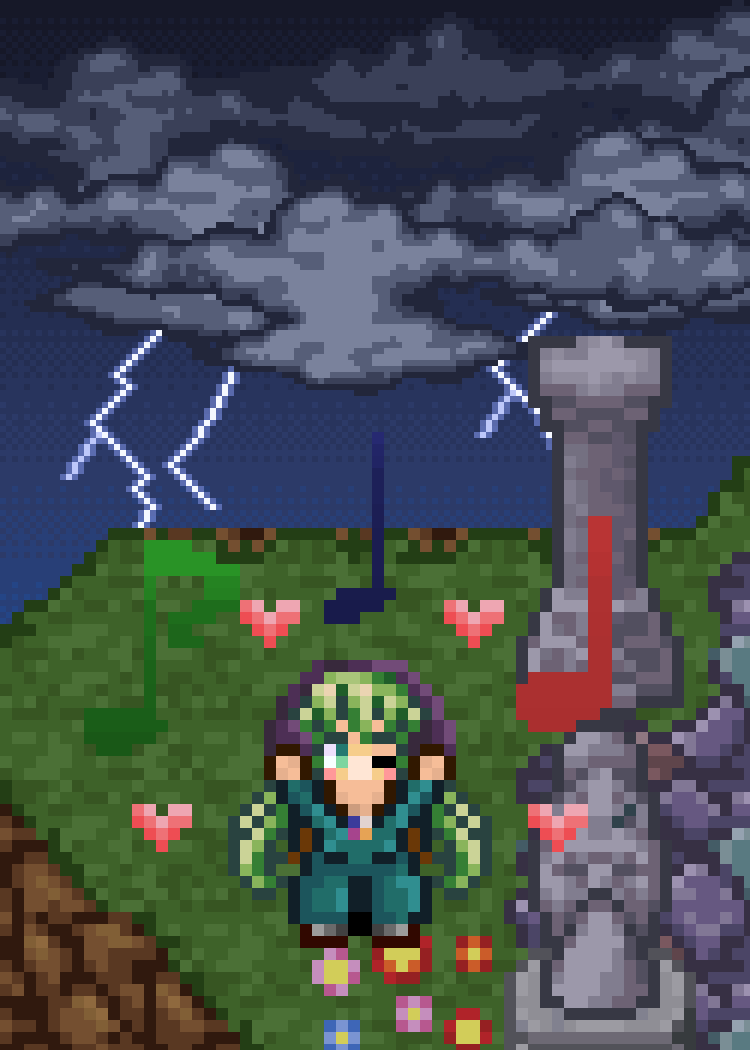
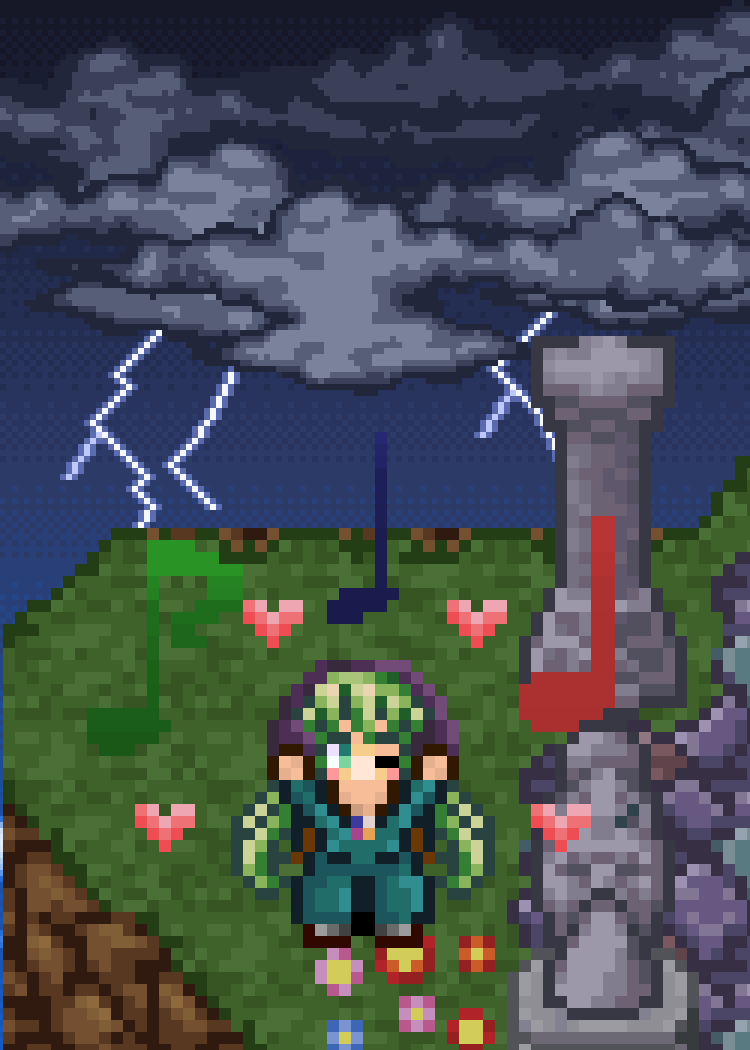
Runde 6: Überarbeitung nach Nutzer-Feedback (Zwischenstand)
Claude-Session: https://claude.ai/code/session_01TEnvTzH2xD44R6Unjv7vDo

diff --git a/data/sleeve-proposals/runde6/generator/s06_crimson_campaign.py b/data/sleeve-proposals/runde6/generator/s06_crimson_campaign.py
@@ -1,22 +1,21 @@
 # -*- coding: utf-8 -*-
 """06 Crimson Campaign – Gegner „Bloody King Zi“, Held: Timeless King Zi (Base-Version).
-Feldherr im blutroten Abendlicht: Zi steht groß auf dem verschneiten Schlachtfeld seiner Heimat, hinter ihm hat sich
-seine Legion mit roten Helmbüschen und Speeren aufgereiht, flankiert von seinen zwei blau-goldenen Standarten (die
-Szepter seiner Kartenszene). Fern am Horizont erhebt sich im Dunst Blood Rock, das Deckcover, vor rot glühendem
+Feldherr im blutroten Abendlicht: Zi steht groß auf dem verschneiten Feld seiner Heimat, links und rechts von ihm
+stecken seine zwei blau-goldenen Standarten (die Szepter seiner Kartenszene) im Schnee. Fern am Horizont steht
+Skulltop Castle – das weiße Schloss mit Goldkuppeln und blauen Fahnen aus seiner Kartenwelt – vor rot glühendem
 Himmel.
 
-Quellen:
-  MotiveGrailWar.xcf Ebene 487 „Zi“: Base-Zi mit Sternumhang (26×28), in Sichtbar #169 (Ebene 30, Kartenbild
-      „Timeless King Zi“, Lage 227,108) sichtbar (99 %, Kartenszene leicht abgedunkelt).
-  MotiveGrailWar.xcf Ebene 485 „Zi #2“: die zwei Szepter/Standarten seiner Kartenszene.
-  MotiveGrailWar.xcf Ebene 214 „Legionäre“: Reihe identischer Legionäre (Periode 18 px), einzeln gesetzt.
-  MotiveGrailWar.xcf Ebene 476 „Ebene #139“: Schneefläche seiner Kartenszene (als Bodentextur, rot getönt).
-  MotiveDeepsea.xcf Ebene 75 „Blood Rock“: das Schloss des Deckcovers, weit hinten im Dunst.
-Selbst gezeichnet: Abendhimmel, ferner Bergkamm, Dunst, Schneewellen, Schatten.
+Quellen (MotiveGrailWar.xcf):
+  Ebene 487 „Zi“: Base-Zi mit Sternumhang (26×28), in Sichtbar #169 (Ebene 30, Kartenbild „Timeless King Zi“,
+      Lage 227,108) sichtbar (99 %, Kartenszene leicht abgedunkelt).
+  Ebene 485 „Zi #2“: die zwei Szepter/Standarten seiner Kartenszene.
+  Ebene 490 „Skulltop Castle“ (31×31; = Referenz skulltop_castle_ref.png), leicht in Abendlicht getönt.
+  Ebene 476 „Ebene #139“: Schneefläche seiner Kartenszene (als Bodentextur, rot getönt).
+Selbst gezeichnet: Abendhimmel, ferner Bergkamm, Schneewellen, Schatten.
 
 Skalierung (Ausgabe = 250×350-Raster × 3):
-  Himmel, Bergkamm, Blood Rock (fern, im Dunst)             – 1× (250×350)
-  Schneefeld, Legion, Standarten, Schatten                 – 2× (125×175)
+  Himmel, ferner Bergkamm                                  – 1× (250×350)
+  Schneefeld, Skulltop Castle, Standarten, Schatten        – 2× (125×175)
   Zi                                                       – 6× (42×59)
 """
 import math, random
@@ -26,12 +25,10 @@ import numpy as np
 B = 'MotiveGrailWar'
 zi = sprite('o06_zi', B, [487])                               # Base-Zi mit Sternumhang (26×28), = Sichtbar #169
 std = parts(compose(B, [485]), dil=1)[0]                      # „Zi #2“: Standarte (7×36)
-legion = compose(B, [214])                                    # „Legionäre“: 5 gleiche Soldaten, Periode 18
-soldier = trimmed(legion[:, 0:19].copy())
 snow = compose(B, [476], crop=False)[284:309, 143:303]        # Schneefläche (ohne Eisgrate/Kanten)
-castle = sprite('o06_bloodrock', 'MotiveDeepsea', [75])       # Blood Rock (189×132)
+castle = sprite('o06_skulltop', B, [490])                     # Skulltop Castle (31×31)
 
-# ---- Ebene 1: Abendhimmel, Bergkamm, Blood Rock (1×) ----------------------------------------------
+# ---- Ebene 1: Abendhimmel, ferner Bergkamm (1×) ----------------------------------------------
 cv = Canvas(250, 350)
 HOR = 150                                                    # Horizont im 250er-Raster
 SKY = [(52, 10, 22), (84, 16, 28), (122, 24, 30), (160, 38, 30), (196, 66, 36), (226, 110, 52), (240, 150, 80)]
@@ -40,20 +37,15 @@ for y in range(HOR + 10):
     i = min(len(SKY) - 2, int(t)); f = t - i
     for x in range(250):
         cv.a[y, x] = SKY[i + 1] if f > bayer(x, y) else SKY[i]
-# Blood Rock weit hinten rechts, im roten Dunst (zur Himmelsfarbe hin gemischt)
-cz = castle[:, 58:134].copy()                               # Mittelteil: Bergfried mit Treppengiebel
-hz = np.array(SKY[4])
-cz[..., :3] = (cz[..., :3] * 0.6 + hz * 0.4).astype(np.uint8)
-cv.paste(cz[:84], 156, HOR - 76)
 # ferner Bergkamm (selbst gezeichnet, 1×), verdeckt den Schlossfuß
 RIDGE = (98, 40, 52)
 for x in range(250):
-    h = 10 + 6 * math.sin(x * 0.045 + 0.8) + 3 * math.sin(x * 0.13) + (5 if 150 < x < 220 else 0) * math.sin((x - 150) / 70 * math.pi)
+    h = 9 + 5 * math.sin(x * 0.045 + 0.8) + 3 * math.sin(x * 0.13)
     top = int(HOR - h)
     for y in range(top, HOR + 10):
         cv.a[y, x] = RIDGE if y > top else (140, 64, 70)
 
-# ---- Ebene 2: Schneefeld, Legion, Standarten (2×, 125×175) -------------------------------------------
+# ---- Ebene 2: Schneefeld, Skulltop Castle, Standarten (2×, 125×175) -------------------------------------------
 W2, H2 = 125, 175
 p2 = rgba(W2, H2)
 G0 = HOR // 2 + 2                                            # Schneefeld beginnt knapp unter dem Horizont
@@ -70,14 +62,16 @@ for (y0, amp, ph) in [(G0 + 6, 2, 0.3), (G0 + 20, 3, 1.7), (G0 + 42, 3, 2.9)]:
         y = int(y0 + amp * math.sin(x * 0.09 + ph))
         p2[y, x, :3] = mix(p2[y, x, :3], (250, 200, 210), 0.45)
         p2[y + 1, x, :3] = mix(p2[y + 1, x, :3], (120, 60, 90), 0.25)
-# Legion in einer Reihe, Standarten an den Enden
-LY = 110                                                     # Fußlinie der Legion (2×-Raster)
-xs = [16, 30, 44, 58, 72, 86, 100]
-for x in xs:
-    put(p2, darken(soldier, 0.82), x, LY - soldier.shape[0])
-    shadow_ellipse(p2, x + 9.5, LY, 7, 1.2, col=(60, 10, 30), a=0.35)
-put(p2, std, 11, LY - std.shape[0] - 2)
-put(p2, std, W2 - 11 - std.shape[1], LY - std.shape[0] - 2)
+# Skulltop Castle fern am Horizont rechts (auf dem Schneefeld), im Abendlicht getönt
+ck = castle.copy()
+ck[..., :3] = (ck[..., :3] * 0.72 + np.array([236, 140, 110]) * 0.28).astype(np.uint8)
+put(p2, ck, 80, G0 + 2 - ck.shape[0])
+# Zis zwei Standarten stecken links und rechts im Schnee
+SY = 118
+put(p2, std, 14, SY - std.shape[0])
+put(p2, std, W2 - 14 - std.shape[1], SY - std.shape[0])
+for sx in (14 + 3.5, W2 - 14 - 3.5):
+    shadow_ellipse(p2, sx, SY, 4, 1.0, col=(60, 10, 30), a=0.4)
 # Bodenschatten unter Zi (Füße bei 250er-y 310 → 2×-Reihe 155)
 shadow_ellipse(p2, 62.5, 155, 20, 3.5, col=(60, 10, 30), a=0.5)
 blit(cv, p2, 2)

diff --git a/data/sleeve-proposals/runde6/generator/s20_stormward_drift.py b/data/sleeve-proposals/runde6/generator/s20_stormward_drift.py
@@ -123,5 +123,5 @@ put(sky, flip(low), 10, 150)
 
 cv = Canvas(W, H)
 blit(cv, sky, 2)
-blit(cv, fg, 4)
+blit(cv, fg, 4, ox=-1)                  # +1 Einheit nach rechts: Kopfmitte genau auf x = 375 von 750
 print(save(cv, '20_stormward_drift.png'))

diff --git a/data/sleeve-proposals/runde6/notes_D.md b/data/sleeve-proposals/runde6/notes_D.md
@@ -1,8 +1,8 @@
 # Notizen Block D (19–24)
 NN | English Name | Gegner | Held | Idee | Skalierung | Quellen | Rahmen
 19 | Hellgate Spring | Gates to Hell | Silent Water Mizune | Beschwörung/Tiefenstaffelung: Mizune steigt wie auf ihrer Karte in ihrer weißblauen Schaumsäule aus stillem, dunklem Wasser; hinter ihr hat sich der Demon's Gate (Cover) geöffnet – der geflügelte rote Dämon tritt aus dem glühenden Rautentor unter rotem Höllenhimmel mit schwarzen Wolkenfetzen; das Wasser spiegelt Tor und Glut, um ihre Säule laufen Wellenringe | Himmel, Demon's Gate, Wasser/Spiegelung, Wellenringe 2×; Mizune 4× (27×44 → 108×176) | Motive: Mizune = Farben der Kartenszene Ebene 128 mit Maske 1306+1309+1311 (unterste 7 Schaumzeilen aus 1311); Demon's Gate 1496 (Dämon), 1497 (Flügel), 1498 (Tor), 1499 (Himmel) in der Anordnung von Szene 116 | Rahmen: wave/sea/ruby
-20 | Stormward Drift | Gather That Storm! | Tarleinn the Traveler | Ruhemoment vor dem Sturm, asymmetrisch: Tarleinn steht mit seinen Herzen und Noten genau an der Stelle seines Kartenbildes – Grasrand der schwebenden Insel mit schräger Felskante, Säule mit Statue; links fällt die Insel in die Tiefe (helle Wolken tief unten), über ihm ballt sich der Gathering Storm (Cover) aus grauen Wolkenbänken, drei Blitze (die Karte trifft 3 Ziele) zucken hinab | Himmel, Sturm-/Tiefenwolken, Blitze 2×; Insel-Vordergrund mit Tarleinn, Herzen, Noten, Säule 4× (Raster 63×88) | MotiveMoe: Kartenszene 155 (Ausschnitt x 141–204, y 70–158, Maske 478 „Relic-Insel“ ∪ 166 „Tarleinn“); Wolke aus 123 (grau umgefärbt, gespiegelt); Blitze selbst gezeichnet (unregelmäßige Zickzack-Segmente, nach Review) | Rahmen: twist/silver/sapphire
-21 | Hall of Arms | Great Weapon Master | Toras, Master of all Weapons | Porträt in der Waffenhalle, Wand symmetrisch als Trophäenwand: Toras frontal mit Schwert in der Linken und riesiger weißer Krummklinge in der Rechten vor der Burgmauer von Blackport; links/rechts grüne Banner, darüber das Schildpaar Shield of Life / Shield of Death seines Decks, über dem Kopf wie auf der Karte das grüne Schwert (+40 Angriff je verschiedenem Artefakt) | alles 4× (Raster 63×88, Spielmaßstab: Toras, Mauer, Banner, Schilde, Pflaster) | MotiveDeepsea 56 „Toras“ + Schwert aus 55 (0 Abweichungen zur Kartenszene 54), grünes Schwert aus 57, Mauer/Sockel/Pflaster/Banner aus 263 „Castle“; Motive 427 Shield of Life, 426 Shield of Death | Rahmen: ornate/gold/emerald
-22 | Vengeful Vigil | Guardians of the Treasure Cave | Mao, the Vengeful Guardian | Nachtwache vor dem Schatztor (Spielansicht: Mauer frontal, Hof schräg von oben): oben in der orangefarbenen Mauer des Wächterhofs das vergitterte Tor der Schatzhöhle, dahinter glänzt ein Goldhaufen; links vor der Mauer steht der Schweine-Wächter Guardian Beast Zhu mit ausgebreiteten Armen, vorn rechts sitzt Mao mit ihrem roten Tuch und blickt uns an; warmer Schein vor dem Tor, Hof sonst dunkel (überarbeitet nach Review) | alles 4× (Raster 63×88: Hof, Tor, Gold, Zhu 24×24, Mao 27×25) | MotiveGuardianBeasts 35 „Mao“ (Base; nicht 34 „Mao-Kopie“), 57 „Zhu“ (stehend, Szene 55), 37 (Wächterhof, Ausschnitt x 121–184, y 3–91, ohne FPS-Schrift); MotiveDeepsea 196 (Goldüberlauf der Schatztruhe, 16×10) | Rahmen: bamboo/lacquer/amber
-23 | Hellfire Salvo | Hellfire Battery | Baaliel, the Demon General | Beschuss, Tiefenstaffelung: Baaliel steht groß vorn auf Basalt vor einem Lavastrom und gibt mit ausgebreiteten Armen den Feuerbefehl; zwei Feuerbälle (Deckkarte Fireball) ziehen schräg von rechts oben nach links unten – Kopf voran, der fernere kleiner – auf die feindliche Stellung auf dem fernen Hügel links, wo ein früherer Treffer lichterloh brennt; nur zwei Horned Demons (Cover) in verschiedener Tiefe: 3× vorn links, 2× hinten rechts (überarbeitet nach Review, ersetzt „Infernal Muster“) | Himmel, Hügel, Brand, ferner Feuerball, ferner Demon, Lavaboden 2×; naher Feuerball, naher Demon 3×; Baaliel 5× (100×140) | Motive 571 „Baaliel“, 573 „Horned Demon“, 1539 „Fireball“ (nur Geschoss, gespiegelt, 20° geneigt), 1537 „Fireball #2“ (Brand), 1044 „Hell“ (Boden); Himmel, Hügelsilhouette, Glut selbst gezeichnet | Rahmen: industrial/iron/lava
-24 | Afterimage | Idej Illusions | Idej Lord Daiyo | Transparenz, Nacht: Daiyo (grüner Geist mit ~73 % Deckkraft wie im Kartenbild, weißes Schwert deckend) schwebt groß vor dem nächtlichen Pavillon der Kogarasu-Karte (Cover); Pavillon und Kirschblütenhain liegen dunkel-violett im Mondlicht, damit die grüne Figur leuchtet; rechts hinten EIN deutlich versetztes, im Schachbrett gedithertes Nachbild = Idej Projection; nur wenige Blüten (überarbeitet nach Review) | Nachthimmel, Mond, Pavillon, Hain, Blüten, grüner Schein 2×; Daiyo + Nachbild 5× (24×41 → 120×205) | MotiveSteamDwarfs 407/405/406 (Kartenszene 402, exakter Treffer); MotiveJapan 236+231+237 (Pavillon), 217 (Kirschbaumreihe), 142 (Blüten); Himmel/Mond/Boden selbst gezeichnet | Rahmen: arch/lacquer/jade
+20 | Stormward Drift | Gather That Storm! | Tarleinn the Traveler | Ruhemoment vor dem Sturm: Tarleinn steht, Kopfmitte genau auf x = 375 (Feedback 1), mit seinen Herzen und Noten genau an der Stelle seines Kartenbildes – Grasrand der schwebenden Insel mit schräger Felskante, Säule mit Statue; links fällt die Insel in die Tiefe (helle Wolken tief unten), über ihm ballt sich der Gathering Storm (Cover) aus grauen Wolkenbänken, drei Blitze (die Karte trifft 3 Ziele) zucken hinab | Himmel, Sturm-/Tiefenwolken, Blitze 2×; Insel-Vordergrund mit Tarleinn, Herzen, Noten, Säule 4× (Raster 63×88) | MotiveMoe: Kartenszene 155 (Ausschnitt x 151–214, y 70–158, Maske 478 „Relic-Insel“ ∪ 166 „Tarleinn“); Wolke aus 123 (grau umgefärbt, gespiegelt); Blitze selbst gezeichnet (unregelmäßige Zickzack-Segmente, nach Review) | Rahmen: twist/silver/sapphire
+21 | Hall of Arms | Great Weapon Master | Toras, Master of all Weapons | Porträt in der Waffenhalle, Wand symmetrisch als Trophäenwand: Toras frontal mit Schwert in der Linken und riesiger weißer Krummklinge in der Rechten vor der Burgmauer von Blackport; grüne Banner ganz außen (teils unter dem Rahmen), dazwischen ohne Überschneidung das Schildpaar Shield of Life / Shield of Death seines Decks, über dem Kopf wie auf der Karte das grüne Schwert (+40 Angriff je verschiedenem Artefakt) (überarbeitet nach Feedback 1: Shield of Life überschnitt das Banner) | alles 4× (Raster 63×88, Spielmaßstab: Toras, Mauer, Banner, Schilde, Pflaster) | MotiveDeepsea 56 „Toras“ + Schwert aus 55 (0 Abweichungen zur Kartenszene 54), grünes Schwert aus 57, Mauer/Sockel/Pflaster/Banner aus 263 „Castle“; Motive 427 Shield of Life, 426 Shield of Death | Rahmen: ornate/gold/emerald
+22 | Vengeful Vigil | Guardians of the Treasure Cave | Mao, the Vengeful Guardian | Nachtwache nach dem Überfall: vor dem vergitterten Tor der Schatzhöhle (dahinter ein Goldhaufen) liegen die gefallenen Guardian Beasts in ihrem Blut – die Leichen aus der Szene von „Dajan, Conqueror of the Treasure Cave“ (Zhu, Tu, Hou, Gou, Yang, Long) in ihrer Anordnung aus der Szene; vorn sitzt groß Mao (Kopfmitte auf x = 375) mit ihrem roten Tuch als rachsüchtige Wächterin, die übrig blieb; warmer Torschein, sonst Nacht (überarbeitet nach Feedback 1) | Hof, Tor, Gold, tote Guardian Beasts 2× (Raster 125×175); Mao 5× (27×25 → 135×125) | MotiveGuardianBeasts 35 „Mao“ (Base), 28 „Ascended Dajan #2“ (Leichen, 98 % in Szene 5 = Dajan-Karte; lebende Niu/Shu/Hu und goldener Krieger nicht verwendet), 37 (Wächterhof x 90–215, y 5–180, ohne FPS-Schrift); MotiveDeepsea 196 (Goldüberlauf 16×10) | Rahmen: bamboo/lacquer/amber
+23 | Hellfire Salvo | Hellfire Battery | Baaliel, the Demon General | Beschuss, Tiefenstaffelung: Baaliel steht groß und mittig (Gesicht auf x = 375) auf Basalt vor einem Lavastrom und gibt mit ausgebreiteten Armen den Feuerbefehl; eine Salve aus vier Feuerbällen (Deckkarte Fireball) zieht auf parallelen, schrägen Bahnen – Kopf voran, die fernen kleiner – zum fernen Hügel links, an dem die Einschläge glühen; Horned Demons (Cover) in zwei Tiefen: zwei nahe als Ehrenwache links/rechts, drei ferne im Glutdunst (überarbeitet nach Feedback 1: senkrechter Feuerball/Brand entfernt, mehr schräge Feuerbälle, mehr Dämonen) | Himmel, Hügel, Einschlagglut, 3 Feuerbälle, 3 Demons, Lavaboden 2×; 1 Feuerball, 2 Demons 3×; Baaliel 5× (100×140) | Motive 571 „Baaliel“, 573 „Horned Demon“, 1539 „Fireball“ (nur Geschoss, gespiegelt, 20° geneigt), 1044 „Hell“ (Boden); Himmel, Hügelsilhouette, Glut selbst gezeichnet | Rahmen: industrial/iron/lava
+24 | Afterimage | Idej Illusions | Idej Lord Daiyo | Transparenz, Nacht: Daiyo (grüner Geist, halbtransparent mit ~73 % Deckkraft wie im Kartenbild, weißes Schwert deckend) schwebt groß vor dem nächtlichen Pavillon der Kogarasu-Karte (Cover), Gesichtsmitte genau auf x = 375; Pavillon und Kirschblütenhain dunkel-violett im Mondlicht, damit die grüne Figur leuchtet; nur wenige Blüten; kein Nachbild mehr (Feedback 1) | Nachthimmel, Mond, Pavillon, Hain, Blüten, grüner Schein 2×; Daiyo 5× (24×41 → 120×205) | MotiveSteamDwarfs 407/405/406 (Kartenszene 402, exakter Treffer); MotiveJapan 236+231+237 (Pavillon), 217 (Kirschbaumreihe), 142 (Blüten); Himmel/Mond/Boden selbst gezeichnet | Rahmen: arch/lacquer/jade

diff --git a/data/sleeve-proposals/runde6/notes_B.md b/data/sleeve-proposals/runde6/notes_B.md
@@ -1,8 +1,8 @@
 # Notizen Block B (07–12)
 NN | English Name | Gegner | Held | Idee | Skalierung | Quellen | Rahmen
-07 | Bone Tide | Bone Rush | Vacarn, the Dark Goblin Necromancer | Vacarn steht groß und frontal vorn auf dem Geröll seines „Dark Land“, sein roter Nekromantie-Schein (Base-Karte) hinter ihm; aus der violetten Nebelschlucht rückt sein Skelettheer in Staffeln an: zwei Bogenschützen als Flanke, dahinter Magier, Heiler und Spitzhut-Skelett, im Nebel die Schatten von Burning/Death Knight/Wizard/Cosmic Skeleton, zwei Schädelfledermäuse am Himmel (frontal, kein Friedhof ≠ Raise the Minions) | Himmel/Schlucht/Boden/zweite Reihe/Schattenheer/Fledermäuse 2×, Bogenschützen + roter Schein 3×, Vacarn 6× (132 px) | Motive 1231 „Vacarn“ (Base, = Szene 47/45 Box 318,198–342,222, nur abgedunkelt), 73/1226/58/54 (Skelette), 790-er Reihe 794/796/792/787 (Schatten), 1286 „Dark Land“ (Texturen); Schein, Nebel, Grate selbst gezeichnet | Rahmen: bone/gothic/ruby/amethyst
+07 | Bone Tide | Bone Rush | Vacarn, the Dark Goblin Necromancer | Vacarn steht groß und frontal vorn auf dem Geröll seines „Dark Land“, sein roter Nekromantie-Schein (Base-Karte) hinter ihm; aus der violetten Schlucht rückt sein Skelettheer in Staffeln an: zwei Bogenschützen als Flanke, dahinter Magier und Heiler, auf dem Horizont links und rechts die dunklen Burning/Death Knight/Wizard/Cosmic Skeletons – alle auf dem schwarzen Geröllboden (kein violetter Nebel am Boden; das seitlich blickende Spitzhut-Skelett entfernt, Feedback 1), zwei Schädelfledermäuse am Himmel | Himmel/Schlucht/Boden/zweite Reihe/Schattenheer/Fledermäuse 2×, Bogenschützen + roter Schein 3×, Vacarn 6× (132 px) | Motive 1231 „Vacarn“ (Base, = Szene 47/45 Box 318,198–342,222, nur abgedunkelt), 73/1226/58/54 (Skelette), 794/796/792/787 (Schatten), 1286 „Dark Land“ (Texturen); Schein, Nebel, Grate selbst gezeichnet | Rahmen: bone/gothic/ruby/amethyst
 08 | Live Fire Test | Boom Boom Kaboom! | Andras, the Human Weapon | Scharfer Test im Labor ihrer Karte: Andras schwebt mit weit gespreizten Arm-Schubflammen in der stählernen Prüfhalle zwischen schwarzen Rippenrohren, die Bombe unter ihr zielt senkrecht auf die Test-Puppe (Anzeige ohne Ziffern) über dem Warnstreifen – gleich macht es Kaboom (≠ Life Serum, ≠ Afterburner) | Halle (Riffelblech-Wand/-Boden, Rohre, Feuerschein, Warnstreifen) 2×, Andras (252×147 px, Flammenspitzen unter dem Rahmen) + Test-Puppe 3× | MotiveGN 448+446+445 (Base-Andras, Szene 7 „Sichtbar #145“ Lage 139,236), 479 „Test Dummy“ („999“ entfernt), 551 „Life Serum“ (Rohre), 559 „Hintergrund“ (Riffelblech) | Rahmen: industrial/iron/amber/ruby
-09 | Caldera Dance | Burning Inferno | Luna Pele, the Flame Dancer | Nachts tief im Krater: Luna Pele tanzt auf einem Basaltfelsen im Lavasee (erkaltete Kruste mit glühenden Fugen), links und rechts ihre Flammensäulen aus der Lava wie auf ihrer Karte, glühende Kraterwände, oben Schlot mit Sternen (im Vulkan statt davor, ohne Tiki-Statuen ≠ Luau) | Himmel/Kraterwände/Lavasee/Flammensäulen 2×, Funken 3×, Basaltinsel + Luna Pele 5× (110×160 px) | MotiveHawaii 262 „Luna Tepe“ (Base-Luna Pele und Säulen, = Szene 5 „Sichtbar #51“ Lage 248,426), 265 (Lava-Streifen), 57/59 (Basalt); Himmel, Licht, Kruste, Glutringe selbst gezeichnet | Rahmen: stone/bronze/lava/topaz
-10 | Serpent Breaker | Cool Gang | Thorad, Strength of Coolness | Ragnarock der Cool Gang: Thorad steht groß auf einem verschneiten Felsvorsprung über dem nächtlichen Sturmmeer; vor ihm hat sich Yolomungandr, die Weltschlange mit Goldketten, aus dem Meer erhoben und bogenförmig über das Bild gewölbt; Thorad hat seinen goldenen Hammer Modnir geschleudert – eine leuchtende Wurfbahn führt von ihm schräg nach oben, der Hammer kracht der Schlange von unten gegen den Kiefer (Lichtstern, Funken, goldener Schein), fern schlägt ein Blitz ins Meer; klare Diagonale Held unten → Ziel oben rechts, kein Hallen-Motiv | Himmel/Wolken/Blitz/Meer/Einschlagschein 2×, Weltschlange (240×174 px) + Gischt + Modnir + Lichtstern-Kern + Wurfbahn 3×, Felsvorsprung + Thorad (110×130 px) 5× | MotiveCoolhalla 221 (Base-Thorad, = Szene 264 „Sichtbar #5“ Lage 173,50, 0 px Abweichung; nicht 219 mit Burning Finger), 217 (Modnir, Karte „Modnir, Hammer of Coolness“, Szene Sichtbar #6), 184 (Weltschlange mit Goldketten, Yolomungandr-Serie), 180 (Lichtstern, nur Kern), 218 (Blitz), 143 (Fels-/Schneetextur); Himmel, Meer, Wurfbahn, Schein selbst gezeichnet | Rahmen: twist/iron/topaz/sapphire
-11 | Silken Descent | Creepy Crawlies | Alleria, the Queen of Spiders | Tief im Spinnenbau: durch ein Loch in der Höhlendecke fällt ein Lichtkegel, Alleria lässt sich an ihrem Faden (eine Hand am Faden wie auf der Karte) hinein; aus Erdlöchern glühen rote Spinnenaugen, Spinnen klettern die Wand hoch, rechts hängt eine Crimson Skull Spider am roten Faden, am Boden krabbeln Spinnen ins Licht – bewusst ohne Spinnennetz | Erdwand/Deckenloch/Lichtkegel/Boden/kleine Spinnen 2×, Crimson Skull Spider 3×, Alleria + Faden 5× (175×145 px) | MotiveGrailWar 622 „Alleria-Kopie“ (Base, = Szene 63 „Sichtbar #56“ Lage 284,118; Netze der Ebene weggelassen), 621 (Faden, verlängert); MotiveGN 259 (Crimson Skull Spider), 267 „SPODDERS“, 421 „Klippen“ (Erdtextur) | Rahmen: filigree/ebony/ruby/amethyst
-12 | Crystal Eve | Crystal Gifts | Mary Crestmas | Heiliger Abend auf dem verschneiten Dorfplatz: Mary Crestmas steht vorn im Schnee, hinter ihr funkelt der Crystal Well (Cover) mit seinem bunten Edelsteinkranz und wirft türkises Licht auf den Schnee; Lichterkette über dem Platz, Sterne, ferne Fensterlichter, Schneefall – ihre „Geschenke“ sind Kristalle | Himmel/Hügel/Schneeplatz/Lichterkette/Flocken 2×, Crystal Well + Funkeln 3×, Mary 5× (120×120 px) | MotiveBoons 71 (flache Weihnachtsdorf-Szene: Bühnen-Mary der Karte freigestellt, Schnee-Textur), MotiveBritain 16/15 (Crystal Well + Funkeln, Szene 14 Lage 190,437) | Rahmen: icicle/ice/ruby/emerald
+09 | Caldera Dance | Burning Inferno | Luna Pele, the Flame Dancer | Nachts tief im Krater: Luna Pele tanzt auf einem Basaltfelsen im Lavasee, genau zwei einzelne hohe Flammensäulen (eine links, eine rechts), glühende Kraterwände, oben Schlot mit Sternen (im Vulkan statt davor, ohne Tiki-Statuen ≠ Luau); Lavasee aus der Lava-Autotile-Textur des Nutzers (Feedback 1) | Himmel/Kraterwände/Lavasee (Autotile 16-px-Kacheln)/Flammensäulen 2×, Funken 3×, Basaltinsel + Luna Pele 5× (110×160 px) | MotiveHawaii 262 „Luna Tepe“ (Base-Luna Pele, = Szene 5 „Sichtbar #51“ Lage 248,426), 258 (einzelne Flammensäule, rechts gespiegelt), 57/59 (Basalt); refs/lava_autotiles.png (Oberkanten- und Mittelkachel); Himmel, Licht, Glutringe selbst gezeichnet | Rahmen: stone/bronze/lava/topaz
+10 | Wowhalla Watch | Cool Gang | Thorad, Strength of Coolness | Neu nach Feedback 1: Thorad steht groß und frontal (Gesicht auf der Bildmitte) im Schnee vor Wowhalla, dem großen Schloss der Coolness (Cover-Karte) – der Wächter vor seiner Halle; hinter ihm die grünen Stachel-Dächer (dieselben, auf denen er auf seiner Karte steht), Zahnräder, Schornstein, darüber der Regenbogen der Rainbow Road | ganze Wowhalla-Szene (Himmel, Regenbogen, Schloss, Zahnräder, Schnee) 1× in Originalpixeln (Schloss 326 px breit, weit hinten), Thorad 6× (132×156 px) | MotiveCoolhalla 221 (Base-Thorad, = Szene 264 „Sichtbar #5“ Lage 173,50, 0 px Abweichung), 253 (Wowhalla), 254 (Zahnräder), 251 (Eissaum), 257 (Himmel), 255/256 (Schnee, diagonal fortgesetzt), 207 (Regenbogen); weiche Rauchsäule 252 weggelassen | Rahmen: twist/iron/topaz/sapphire
+11 | Silken Descent | Creepy Crawlies | Alleria, the Queen of Spiders | Tief im Spinnenbau: von oben fällt ein Lichtkegel herein, Alleria lässt sich an ihrem Faden hinab – der Faden reicht vom oberen Bildrand bis direkt an ihre Hand (Feedback 1: Loch/Grün-Gelbes entfernt, Anschluss an die Hand); ihr Schatten und der der Crimson Skull Spider liegen im Lichtfleck am Boden; aus Erdlöchern glühen rote Spinnenaugen, Spinnen klettern die Wand hoch und krabbeln ins Licht – ohne Spinnennetz | Erdwand/Lichtkegel/Boden/Schatten/kleine Spinnen 2×, Crimson Skull Spider 3×, Alleria + Faden 5× (175×145 px) | MotiveGrailWar 622 „Alleria-Kopie“ (Base, = Szene 63 „Sichtbar #56“ Lage 284,118; Netze weggelassen), 621 (Faden, verlängert); MotiveGN 259 (Crimson Skull Spider), 267 „SPODDERS“, 421 „Klippen“ | Rahmen: filigree/ebony/ruby/amethyst
+12 | Crystal Eve | Crystal Gifts | Mary Crestmas | Heiliger Abend auf dem verschneiten Dorfplatz: Mary Crestmas (ihr Spiel-Sprite MIT Santa-Mütze, Feedback 1) steht vorn im Schnee, hinter ihr funkelt der Crystal Well (Cover) auf einem flachen Schatten (steht jetzt fest auf dem Schnee), türkises Licht auf dem Schnee; Lichterkette, Sterne, ferne Fensterlichter, Schneefall | Himmel/Hügel/Schneeplatz/Lichterkette/Flocken 2×, Crystal Well + Funkeln + Schatten 3×, Mary 5× (120×150 px, Gesicht auf der Bildmitte) | data/hero-animations/mary-crestmas.png (Frame 0, Musiknoten weggelassen), MotiveBoons 71 (Schnee-Textur), MotiveBritain 16/15 (Crystal Well + Funkeln, Szene 14 Lage 190,437) | Rahmen: icicle/ice/ruby/emerald

diff --git a/data/sleeve-proposals/runde6/notes_A.md b/data/sleeve-proposals/runde6/notes_A.md
@@ -1,7 +1,7 @@
 # Notizen Block A (Runde 6, Gegner 01–06)
-01 | Searing Grace | Heal Burn | Nao, the Barrier Priestess | Porträt/Ruhemoment: Nao (Base, goldener Stab) steht groß im weißen Kern ihres Barrierenscheins, hinter ihr breiten sich die Feuerflügel ihrer eigenen Kartenszene aus; Hintergrund ist der goldene Tempel ihrer Karte (Ziegelwand mit zwei rankenbewachsenen Steinmasken, Stachelreihe, Flechtboden); grüne Heilkreuze steigen auf und verfärben sich zur Flamme hin zu Glut – Heilung wird Schaden | Tempel, Masken, Feuerflügel, Schein, Heilkreuze 2× (125×175); Nao 5× (50×70) | Motive: 477 „NAO-Kopie“ (Nao-Ausschnitt, gegen Sichtbar #42/Ebene 99 Lage 278,193 geprüft; Kopf/Oberkörper pixelgleich, Unterkörper im Kartenbild vom Glühen überdeckt), 475+476 (Feuerflügel der Kartenszene), 471 (Schein als Vorlage), 1080 „Schatzgrotte-Kopie“ (Kacheln, Masken) | Rahmen: ornate/gold/ruby/topaz
+01 | Searing Grace | Heal Burn | Nao, the Barrier Priestess | Nao wehrt ab: Nao (Base, goldener Stab, Gesicht mittig) steht groß im goldenen Tempel ihrer Karte, umhüllt von ihrer schimmernden Barrierenkugel; ein Feuerball schlägt rechts oben auf die Barriere und zerstiebt in Funken und am Rand zerfließenden Flammenzungen (der Rand leuchtet auf), ein zweiter fliegt von links heran – sie bleibt unversehrt | Tempelwand, Boden, Masken, Schatten 2× (125×175); Nao, Barriere (Alpha auf ganzen 5×-Pixeln), Feuerbälle, Einschlag 5× (50×70) | Motive: 477 „NAO-Kopie“ (Nao-Ausschnitt, gegen Sichtbar #42/Ebene 99 geprüft), 1539 „Fireball“ (Feuerball, einmal gespiegelt), 1080 „Schatzgrotte-Kopie“ (Kacheln, Masken); Barriere nach Ebene 471 selbst gezeichnet | Rahmen: ornate/gold/ruby/topaz
 02 | Blast Radius | Suicide Bombers | Bomb Berserker Bartas | Action: Bartas steht mit verschränkten Armen unbeeindruckt vorn auf dem Lavastein, hinter ihm blüht eine gewaltige Explosion auf; Lavaband am Horizont, flache Druckwelle, fliegende Splitter, sein Schatten fällt im Gegenlicht lang nach vorn | Himmel, Explosion, Boden, Splitter 3× (84×117); Bartas + Schatten 6× (42×59) | Motive: 1476 „Bartas“ (= Sichtbar #267/Ebene 129, 100 %), 1481 „Explosion“ (in Glutpalette umgefärbt), 1477/1475 (Lavastein-/Lavakachel, Splitter aus Bartas' Kartenszene) | Rahmen: industrial/iron/lava
-03 | Tainted Fountain | Venom Swamp | Zsos'Ssar, the Serpent Warlord | Poisoned Well (Cover) als zweiter Blickpunkt: abends auf dem Dorfplatz von Deri steht Zsos'Ssar groß mit Hellebarde vor dem nah herangeholten Brunnenbecken, dessen Wasser giftviolett leuchtet (vergiftete Fassung der Kartenszene); Giftblasen, Dunstschwaden, violetter Schein auf Rand und Pflaster, die Steinstatue ragt über ihm auf | Dorfplatz, Brunnen, Statue, Blasen, Dunst, Schein 3× (84×117); Zsos'Ssar 6× (42×59) | Motive: 521 „Snecko“ (= Base-Zsos'Ssar, Sichtbar #148/Ebene 405, 100 %); MotiveDeri: 179 „Ebene #40“ (Deri mit vergiftetem Brunnen = Kartenbild Poisoned Well), eingebackene Figuren und Wegweiser mit Pflaster übermalt | Rahmen: twist/bronze/emerald/amethyst
-04 | Shield Shrine | Bamboo Warrior | Xiong, the Bamboo Guardian | Wappenwand/Ehrenwache: Xiong (Base, Bambusstab quer) steht frei vor einer dunklen, rot lackierten Palastwand; über ihm hängt im Lichtschein sein Bamboo Shield vor dem brennenden Bamboo Staff (Cover), oben der rote Behang der Bamboo-Shield-Karte – bewusst anders als „Bamboo Sentinel“ (Bambushain) | Wand, Behang, Schild, Stab, Boden 3× (84×117); Xiong 5× (50×70) | MotiveChina: 5 „Xiong“ (= Sichtbar #4, 100 %), 12 „Bamboo Statt“ (brennender Stab, einmal gespiegelt dahinter), 3 (Vorhänge), 16 „Bamboo Shield“, 26 „Palace #3“ (Ziegel, dunkel); Lackwand, Goldleiste, Schein selbst gezeichnet | Rahmen: bamboo/bamboo/jade
-05 | Field Study | Big Stomp! | Kit, the Shark Researcher | Spurensuche: Kit (Hut, Laborkittel) steht auf einer Lichtung der Gigantisaurier-Insel (Kartenstil der Gigantisaur-Karten); hinter ihm steht der riesige Brachion mit den Füßen auf der Lichtung vor dem Waldrand und reckt den Hals über ihn, seine Trittsiegel führen quer über die Lichtung | Insel, Brachion (gespiegelt), Trittsiegel 3× (84×117); Kit 5× (50×70) | MotiveDeepsea: 38 (Hut) + 39 „Kit-Kopie“ (= Kartenbild Sichtbar #37, sitzend, offener Mund), Beine ab Hüfte aus 40 „Kit“ (stehend; im Kartenbild vom Stuhl verdeckt); MotiveGrailWar: 503 „Brachion“ (= Sichtbar #61, 100 %), 515 (Inselkarte) | Rahmen: wave/wood/amber
-06 | Crimson Campaign | Bloody King Zi | Timeless King Zi | Feldherr im blutroten Abendlicht: Zi steht groß auf dem verschneiten Schlachtfeld, hinter ihm seine Legion mit roten Helmbüschen und Speeren, flankiert von seinen zwei blau-goldenen Standarten; fern am Horizont erhebt sich Blood Rock (Cover) im roten Dunst | Himmel, Bergkamm, Blood Rock 1× (fern); Schneefeld, Legion, Standarten, Schatten 2× (125×175); Zi 6× (42×59) | MotiveGrailWar: 487 „Zi“ (Sichtbar #169/Ebene 30, 99 %), 485 „Zi #2“ (Standarten seiner Kartenszene), 214 „Legionäre“ (einzeln gesetzt), 476 (Schneefläche, rot getönt); MotiveDeepsea: 75 „Blood Rock“ (Mittelteil, im Dunst) | Rahmen: cosmic/ice/ruby/sapphire
+03 | Tainted Fountain | Venom Swamp | Zsos'Ssar, the Serpent Warlord | Poisoned Well (Cover) als zweiter Blickpunkt: Zsos'Ssar steht groß mit Hellebarde (Gesicht mittig auf x = 375) vor dem nah herangeholten, giftviolett leuchtenden Brunnenbecken von Deri; Giftblasen, Dunstschwaden, violetter Schein auf Rand und Pflaster, die Steinstatue ragt hinter ihm auf | Dorfplatz, Brunnen, Statue, Blasen, Dunst, Schein 3× (84×117); Zsos'Ssar 6× (42×59) | Motive: 521 „Snecko“ (= Base-Zsos'Ssar, Sichtbar #148/Ebene 405, 100 %); MotiveDeri: 179 „Ebene #40“ (Deri mit vergiftetem Brunnen = Kartenbild Poisoned Well), eingebackene Figuren und Wegweiser mit Pflaster übermalt | Rahmen: twist/bronze/emerald/amethyst
+04 | Shield Shrine | Bamboo Warrior | Xiong, the Bamboo Guardian | Wappenwand/Ehrenwache: Xiong (Base, Bambusstab quer, Gesicht mittig auf x = 375) steht frei vor einer dunklen, rot lackierten Palastwand; über ihm hängt im Lichtschein sein Bamboo Shield vor dem brennenden Bamboo Staff (Cover), oben der rote Behang der Bamboo-Shield-Karte – bewusst anders als „Bamboo Sentinel“ (Bambushain) | Wand, Behang, Schild, Stab, Boden 3× (84×117); Xiong 5× (50×70) | MotiveChina: 5 „Xiong“ (= Sichtbar #4, 100 %), 12 „Bamboo Statt“ (brennender Stab, zweimal gegenläufig), 3 (Vorhänge), 16 „Bamboo Shield“, 26 „Palace #3“ (Ziegel, dunkel); Lackwand, Goldleiste, Schein selbst gezeichnet | Rahmen: bamboo/bamboo/jade
+05 | Field Study | Big Stomp! | Kit, the Shark Researcher | Abends am Waldrand der Gigantisaurier-Insel folgt Kit (Hut, Laborkittel) auf der Wiese einer Fährte dreizehiger Trittsiegel – hinter ihm ragt über den Baumwipfeln die schwarze Schattensilhouette des T-Rex vor dem Abendhimmel auf, das Maul über ihm aufgerissen; einheitliche Seitenansicht mit Horizont | Himmel, T-Rex-Silhouette, Waldrand, Wiese, Trittsiegel 2× (125×175); Kit 5× (50×70) | MotiveDeepsea: 38 (Hut) + 39 „Kit-Kopie“ (= Kartenbild Sichtbar #37, offener Mund), Beine ab Hüfte aus 40 „Kit“ (im Kartenbild vom Stuhl verdeckt); MotiveGrailWar: 513 „Trex“ (King Trex, gespiegelt, als Silhouette, ohne Flammenkrone), 515 (Graskachel der Inselkarte); Himmel, Baumsilhouetten, Trittsiegel selbst gezeichnet | Rahmen: wave/wood/amber
+06 | Crimson Campaign | Bloody King Zi | Timeless King Zi | Feldherr im blutroten Abendlicht: Zi steht groß (Gesicht mittig) auf dem verschneiten Feld seiner Heimat, links und rechts stecken seine zwei blau-goldenen Standarten im Schnee; fern am Horizont steht Skulltop Castle (weiß, Goldkuppeln, blaue Fahnen) vor rot glühendem Himmel | Himmel, ferner Bergkamm 1×; Schneefeld, Skulltop Castle, Standarten, Schatten 2× (125×175); Zi 6× (42×59) | MotiveGrailWar: 487 „Zi“ (Sichtbar #169/Ebene 30, 99 %), 485 „Zi #2“ (Standarten seiner Kartenszene), 490 „Skulltop Castle“ (= Referenz skulltop_castle_ref.png, abendlich getönt), 476 (Schneefläche, rot getönt) | Rahmen: cosmic/ice/ruby/sapphire

diff --git a/data/sleeve-proposals/runde6/concepts.md b/data/sleeve-proposals/runde6/concepts.md
@@ -12,19 +12,19 @@
 19 | Hellgate Spring | Beschwörung/Tiefenstaffelung: Mizune (Base, in ihrer Schaumsäule) steigt aus stillem, dunklem Wasser auf; hinter ihr hat sich der Demon's Gate geöffnet – der geflügelte rote Dämon tritt aus dem glühenden Rautentor unter rotem Höllenhimmel – und das Wasser spiegelt Tor und Glut
 20 | Stormward Drift | Ruhemoment vor dem Sturm, asymmetrisch: Tarleinn steht mit seinen Herzen und Noten am Grasrand seiner schwebenden Insel (Kartenstelle: schräge Felskante, Säule mit Statue); über ihm ballt sich der Gathering Storm aus grauen Wolkenbänken, drei Blitze (3 Ziele) zucken in die Tiefe
 21 | Hall of Arms | Porträt in der Waffenhalle, Wand streng symmetrisch (alles 4×, Spielmaßstab): Toras (Base, Schwert + weiße Krummklinge) steht frontal vor der Burgmauer von Blackport; links/rechts die grünen Banner, darüber das Schildpaar Shield of Life / Shield of Death seines Decks, über dem Kopf das grüne Schwert seiner Karte
-22 | Vengeful Vigil | Nachtwache vor dem Schatztor (alles 4×, Spielansicht): vergittertes Tor der Schatzhöhle mit Goldhaufen dahinter, links der stehende Schweine-Wächter Zhu, vorn Mao mit rotem Tuch; warmer Torschein, Hof dunkel
-23 | Hellfire Salvo | Beschuss: Baaliel groß vorn auf Basalt; zwei Fireballs ziehen schräg auf eine brennende feindliche Stellung auf dem fernen Hügel; nur zwei Horned Demons in verschiedener Tiefe (3×/2×)
-24 | Afterimage | Transparenz, Nacht: grüner Geist Daiyo (Base, weißes Schwert) vor dem nächtlichen Kogarasu-Pavillon, dunkler Kirschblütenhain, Mond; ein gedithertes Nachbild rechts hinten = Idej Projection (kein Projektor, kein Lichtkegel, kein Wasser)
-01 | Searing Grace | Porträt/Ruhemoment: Nao (Base, goldener Stab) steht groß in ihrem weißen Barrierenschein vor dem goldenen Tempel ihrer Karte, hinter ihr breitet sich der flammende Feuerflügel-Schein der Kartenszene aus; von unten steigen grüne Heilfunken auf und verglühen oben zu Glut (Heilung wird Schaden)
+22 | Vengeful Vigil | Nachtwache nach dem Überfall: vor dem vergitterten Schatztor liegen die toten Guardian Beasts (Leichen aus der Dajan-Szene) in ihrem Blut, vorn sitzt groß Mao als die Wächterin, die übrig blieb
+23 | Hellfire Salvo | Beschuss: Baaliel groß und mittig vorn auf Basalt; eine Salve aus vier schrägen Fireballs zieht zum glühenden Hügel links; Horned Demons in zwei Tiefen (2 nah, 3 fern)
+24 | Afterimage | Transparenz, Nacht: grüner Geist Daiyo (Base, halbtransparent, weißes Schwert, Gesicht mittig) vor dem nächtlichen Kogarasu-Pavillon, dunkler Kirschblütenhain, Mond (kein Nachbild, kein Projektor, kein Wasser)
+01 | Searing Grace | Nao wehrt ab: Nao groß in ihrer schimmernden Barrierenkugel im goldenen Tempel, Feuerbälle prallen auf die Barriere und zerstieben
 02 | Blast Radius | Action: Bomb Berserker Bartas steht mit verschränkten Armen unbeeindruckt vorn auf dem Lavastein seiner Karte, während hinter ihm eine gewaltige Explosion (Explosion-Sprite) aufblüht; Gesteinsbrocken fliegen, links und rechts brennen die toten Bäume seiner Karte
 03 | Tainted Fountain | Poisoned Well nah: Zsos'Ssar (6×) steht groß vor dem giftviolett leuchtenden Brunnenbecken von Deri, Giftblasen und Dunst, die Steinstatue ragt über ihm auf
 04 | Shield Shrine | Wappenwand/Ehrenwache: Xiong steht frei vor dunkler, rot lackierter Palastwand, über ihm Bamboo Shield vor dem brennenden Bamboo Staff (Cover), oben roter Behang
-05 | Field Study | Spurensuche: Kit auf einer Lichtung der Gigantisaurier-Insel, hinter ihm der Brachion mit den Füßen auf der Lichtung vor dem Waldrand, Trittsiegel quer über die Lichtung
-06 | Crimson Campaign | Feldherr im blutroten Abendlicht: Zi groß auf dem verschneiten Schlachtfeld, dahinter seine Legion mit Standarten, fern im Dunst Blood Rock
+05 | Field Study | Kit folgt abends auf der Wiese am Waldrand einer T-Rex-Fährte, hinter ihm ragt die schwarze T-Rex-Silhouette vor dem Abendhimmel auf
+06 | Crimson Campaign | Feldherr im blutroten Abendlicht: Zi groß auf verschneitem Feld zwischen seinen Standarten, fern Skulltop Castle
 07 | Bone Tide | Action mit Tiefenstaffel: Vacarn (Base, roter Nekromantie-Schein der Karte) steht groß vorn auf dem Felsboden seiner Kartenwelt, hinter ihm quillt sein Skelettheer (Death Knight, Mage, Reaper, Archer, Bone Dog, Skull Bat …) in Keilformation aus dem violetten Nebel der Schlucht auf den Betrachter zu – frontal statt von hinten, kein Friedhof (≠ Raise the Minions)
 08 | Live Fire Test | (geändert: „Launch Shaft“ zu nah an Afterburner/Life Serum) Scharfer Test im Labor ihrer Karte: Andras schwebt mit weit gespreizten Schubflammen in der stählernen Prüfhalle zwischen schwarzen Rohrsäulen, die Bombe unter ihr zielt auf die Test-Puppe am Boden – gleich macht es Kaboom
 09 | Caldera Dance | Luna Pele tanzt nachts auf einem Basaltfelsen mitten im Lavasee eines Kraters (Heart of the Mountain), links und rechts steigen ihre Flammensäulen aus der Lava (Dance of the Flame Pillars), die Kraterwände glühen, oben Rauch und Sterne – im Vulkan statt davor (≠ Luau)
-10 | Serpent Breaker | (ersetzt „Hammerfall“) Ragnarock: Thorad steht groß auf einem Felsvorsprung über dem Sturmmeer und schleudert seinen goldenen Hammer Modnir gegen Yolomungandr, die Weltschlange mit Goldketten, die sich aus dem Meer erhebt – leuchtende Wurfbahn, Einschlag am Kiefer, kein Hallen-Motiv
+10 | Wowhalla Watch | (ersetzt „Hammerfall“/„Serpent Breaker“, Nutzer-Feedback) Thorad steht groß im Schnee vor dem großen Wowhalla-Schloss aus MotiveCoolhalla, Regenbogen über den Stachel-Dächern – der Wächter vor seiner Halle
 11 | Silken Descent | Alleria lässt sich an ihrem Faden aus einem Lichtloch in der Höhlendecke in die dunkle Spinnenhöhle (Spider Hive) hinab; unten in den Löchern der Erdwand glühen rote Spinnenaugen, eine Crimson Skull Spider hängt an ihrem roten Faden – ohne Spinnennetz
 12 | Crystal Eve | Heiliger Abend auf dem verschneiten Dorfplatz: Mary Crestmas (Bühnenfassung ihrer Karte) steht vorn im Schnee, hinter ihr funkelt der Crystal Well mit seinem bunten Edelsteinkranz, über dem Platz Lichterkette, Sterne, ferne Fensterlichter, Schneefall
 31 | Tiger and Ox | Nachts auf dem Friedhof seiner Karte (Grabkreuze, Schädel, Knochen): Ghuanjun (Base, Jiangshi mit Hut und Talisman) steht groß frontal; hinter ihm leuchten als halbtransparente Mosaik-Masken seine zwei Kampfgeister – links der Tiger (Ferocious Tiger Kick), rechts der Ochse (Strong Ox Headbutt): „One-Two-Punch“, zwei Angriffe pro Zug

diff --git a/data/sleeve-proposals/runde6/notes_H.md b/data/sleeve-proposals/runde6/notes_H.md
@@ -1,6 +1,6 @@
 # Notizen Block H (41–44)
 NN | English Name | Gegner | Held | Idee | Skalierung | Quellen | Rahmen
-41 | Rampart of Deri | Steam Dwarf Mines | Layn, Defender of Deri | Porträt über die Brüstung: Layn (Base, Krone mit Rubin und Quasten, Hände auf der Zinne) bewacht hinter der grauen Zinnenmauer seiner Karte die Minenhalle der Steam Dwarfs, die sich hinter ihm als eine Tiefe öffnet: vorn eine steinerne Förderbrücke mit Schienen, deren Pfeiler im Lavafluss am Grund stehen, darauf als Blickpunkt der Steam Dwarf Dragon Pilot (Cover); weiter hinten auf zwei versetzten Felsbänken der Steam Dwarf Exterminator (sein Flammenstrahl schießt über die Kante hinab; statt des Miners, Nutzer-Feedback) und der Brewer mit aufsteigendem Dampf | Felswand, Felsbänke, Miner, Brewer, Dampf, Lavafluss 2×; Förderbrücke, Pfeiler, Dragon Pilot 3×; Layn + Brüstung 5× | MotiveDeri 250 „Layn“, 245 „Layn #1“, 246 „Zinnen“ (gegen Sichtbar #83 pixelgleich); MotiveSteamDwarfs 445 (Felswand-Kachel), 444 (Lava-Kachel), Exterminator [433, 434], Brewer [440, 441], Dragon Pilot [429], Dampf 431 | Rahmen: industrial/iron/lava
+41 | Rampart of Deri | Steam Dwarf Mines | Layn, Defender of Deri | Porträt über die Brüstung: Layn (Base, Krone mit Rubin und Quasten, Hände auf der Zinne) bewacht hinter der grauen Zinnenmauer seiner Karte die Minenhalle der Steam Dwarfs, die sich hinter ihm als eine Tiefe öffnet: vorn eine steinerne Förderbrücke mit Schienen, deren Pfeiler im Lavafluss am Grund stehen, darauf als Blickpunkt der Steam Dwarf Dragon Pilot (Cover); weiter hinten auf zwei versetzten Felsbänken der Steam Dwarf Exterminator (sein Flammenstrahl schießt über die Kante hinab; statt des Miners, Nutzer-Feedback) und der Brewer mit aufsteigendem Dampf | Felswand, Felsbänke, Exterminator, Brewer, Dampf, Lavafluss 2×; Förderbrücke, Pfeiler, Dragon Pilot 3×; Layn + Brüstung 5× | MotiveDeri 250 „Layn“, 245 „Layn #1“, 246 „Zinnen“ (gegen Sichtbar #83 pixelgleich); MotiveSteamDwarfs 445 (Felswand-Kachel), 444 (Lava-Kachel), Exterminator [433, 434], Brewer [440, 441], Dragon Pilot [429], Dampf 431 | Rahmen: industrial/iron/lava
 42 | Sunforged Summit | Sun Fencer Frenzy | Taio, the Sun Fencer | Gegenlicht/Action: Taio steht im Morgengrauen auf dem Gipfel seines Vulkans, umgeben vom Flammenring seiner Base-Karte, und reckt The Sun Sword empor – die Klingenspitze sitzt genau vor der aufgehenden Sonne; unter seinen Füßen glüht der Riss des Mountain's Heart, auf zwei Felsnasen wachen die Wasserspeier mit roten Augen aus seiner Karte | Himmel, Sonne, Berge, Wasserspeier 2×; Taio mit Schwert, Faust, Flammenring (70 % Deckkraft) und Gipfelkegel 4× | MotiveHawaii 72 „Taio“, 71 (Sun Sword), 70 (Faust), 73 (Flammenring), 81 (Wasserspeier) – Sichtbar #30 (Ebene 69) | Rahmen: arch/bronze/amber
 43 | Wheel of Wisdom | To Attain Divinity | Archibald, the Archmage | Neu nach Nutzer-Feedback, ganz aus seinem Kartenmotiv gebaut: Archibald steht in seiner dämmrigen Halle vor der großen Glasrosette seiner Base-Karte; in den fünf farbigen Feldern erscheinen wie auf der Karte die fünf Gestalten (Schattengestalt, rothaarige Kämpferin, braunhaarige Schützin, Mann mit Hut, Hexe), ihr buntes Licht fällt auf den Dielenboden zu seinen Füßen | Mauer, Rosette (152 px), fünf Gestalten 2×; Archibald, Dielenboden, Lichtfleck 5× | Motive 436 „ARCHMAGE“ + 435 (Funkeln), gegen Sichtbar #43 pixelgleich; Rosette 441 (Glas), 440 (Bleiruten), 439/444 (Ring, Speichen); 438 (die fünf Gestalten); Farben des Hallenparketts aus Sichtbar #43 | Rahmen: filigree/gothic/amethyst
 44 | Sakura Mirror | Grand Rebellion! | Champion, the Stormbringer | Ruhemoment/Spiegelung: Champion steht in der Abenddämmerung auf einem Trittstein im Fluss, das Wasser spiegelt ihn, den rosa Kirschhain und den Himmel; am Ufer wartet der Rebelliokai Courtly Kirin (Cover), über dem Hain gleitet der Terror Tengu mit Fächer heran – die Rebellen sammeln sich um ihren Anführer (kein Tornado, keine Karten) | Himmel, Hain, Kirin, Tengu, fernes Wasser, Blüten 2×; Champion, Trittstein, seine Spiegelung, Wellen 4× | MotiveJapan 121 „Champion“ + 119/120 (Schwerthand/Schwert), 166 „Kirin“, 200 (Tengu), 181 (Kirschbäume), 142 „KIRSCHBLÜTEN“ | Rahmen: wave/lacquer/rose
